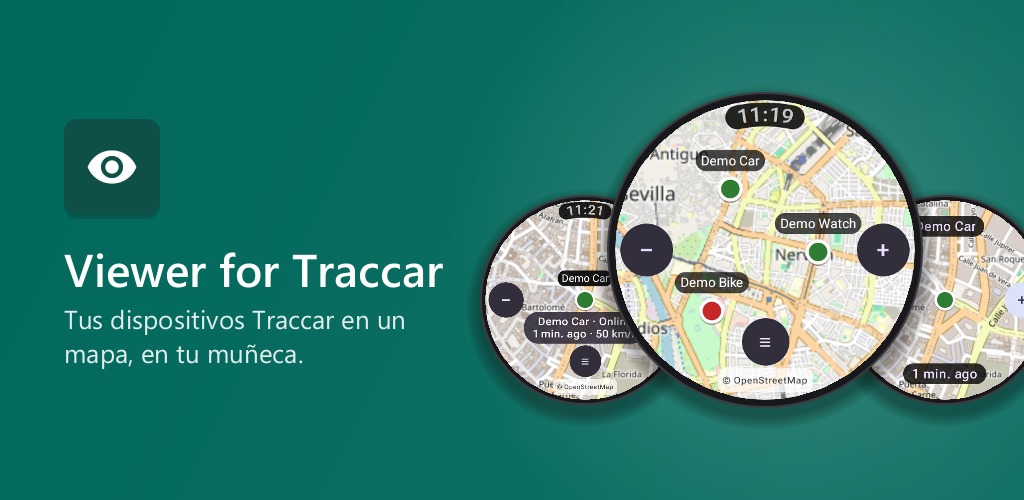
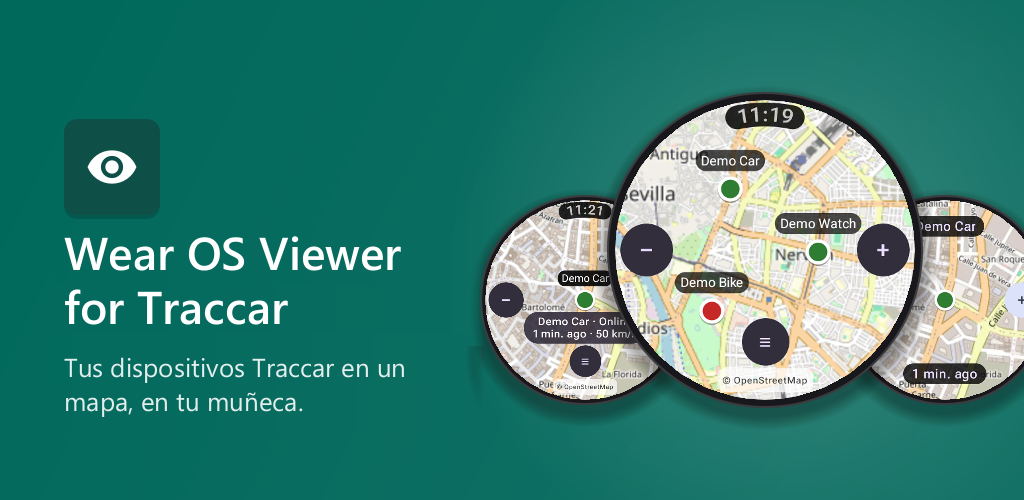
Título de la ficha: Wear OS Viewer for Traccar en todos los idiomas

Changed region(s): [[0.0625, 0.48, 0.4375, 0.66], [0.0625, 0.69, 0.4062, 0.84]]

diff --git a/README.md b/README.md
@@ -21,7 +21,7 @@ No Firebase and nothing to configure on the server.
 [![9 languages](https://img.shields.io/badge/languages-9-8E6FD8)](#features)
 [![Latest release](https://img.shields.io/github/v/release/Eduzyrtin/TraccarWearViewer?color=C6F28E&label=download)](https://github.com/Eduzyrtin/TraccarWearViewer/releases/latest)
 
-<img src="docs/media/hero.gif" alt="Viewer for Traccar on a Wear OS watch" width="300">
+<img src="docs/media/hero.gif" alt="Wear OS Viewer for Traccar on a Wear OS watch" width="300">
 
 <table>
   <tr>
@@ -33,7 +33,7 @@ No Firebase and nothing to configure on the server.
 
 **[Get it on Google Play](https://play.google.com/store/apps/details?id=com.sanabria.traccarwearosviewer)** · **[Download the APK](https://github.com/Eduzyrtin/TraccarWearViewer/releases/latest)** · [Getting started](#getting-started) · [Map types and API keys](#map-types-and-api-keys) · [FAQ](#faq)
 
-> **Free, on Google Play and GitHub.** Viewer for Traccar is completely free. Install it from **[Google Play](https://play.google.com/store/apps/details?id=com.sanabria.traccarwearosviewer)** for automatic updates, or download the APK from **[GitHub Releases](https://github.com/Eduzyrtin/TraccarWearViewer/releases/latest)**. Same app either way.
+> **Free, on Google Play and GitHub.** Wear OS Viewer for Traccar is completely free. Install it from **[Google Play](https://play.google.com/store/apps/details?id=com.sanabria.traccarwearosviewer)** for automatic updates, or download the APK from **[GitHub Releases](https://github.com/Eduzyrtin/TraccarWearViewer/releases/latest)**. Same app either way.
 
 </div>
 
@@ -199,13 +199,13 @@ Please open an **[issue](https://github.com/Eduzyrtin/TraccarWearViewer/issues)*
 
 ## Support the project
 
-Viewer for Traccar is a passion project and it is **free**, on Google Play and on GitHub. If it is useful to you:
+Wear OS Viewer for Traccar is a passion project and it is **free**, on Google Play and on GitHub. If it is useful to you:
 
 - ☕ **[Buy me a coffee on Ko-fi](https://ko-fi.com/Eduzyrtin)**
 - ▶ **[Get it on Google Play](https://play.google.com/store/apps/details?id=com.sanabria.traccarwearosviewer)**: automatic updates included.
 - ⭐ Star the repo and tell someone who tracks their cars or bikes with Traccar.
 
-Looking for the other half? **[Tracker for Traccar](https://github.com/Eduzyrtin/TraccarWearClient)** sends your watch's own location to your server.
+Looking for the other half? **[Wear OS Client for Traccar](https://github.com/Eduzyrtin/TraccarWearClient)** sends your watch's own location to your server.
 
 ## Building from source
 
@@ -260,7 +260,7 @@ Tested on the Wear OS API 34 emulator against a local mock server (sign-in, map,
 
 Copyright (C) 2026 Eduardo Sanabria.
 
-Viewer for Traccar is free software released under the **[GNU General Public License v3.0](LICENSE)**. You can use, study, share and modify it, and any modified version you distribute has to stay under the same license.
+Wear OS Viewer for Traccar is free software released under the **[GNU General Public License v3.0](LICENSE)**. You can use, study, share and modify it, and any modified version you distribute has to stay under the same license.
 
 <div align="center">
 <sub>"Traccar" is a trademark of its respective owners. This app is not affiliated with them.</sub>

diff --git a/docs/PLAY_STORE.md b/docs/PLAY_STORE.md
@@ -1,4 +1,4 @@
-# Google Play: Viewer for Traccar
+# Google Play: Wear OS Viewer for Traccar
 
 Paquete `com.sanabria.traccarwearosviewer` · solo Wear OS · ficha en [`fastlane/metadata/android/`](../fastlane/metadata/android)
 (formato estándar, ver §8 de `HERRAMIENTAS/GUIA_PROYECTOS.md`). Idiomas: los 9 de la app; `en-US` es el predeterminado.
